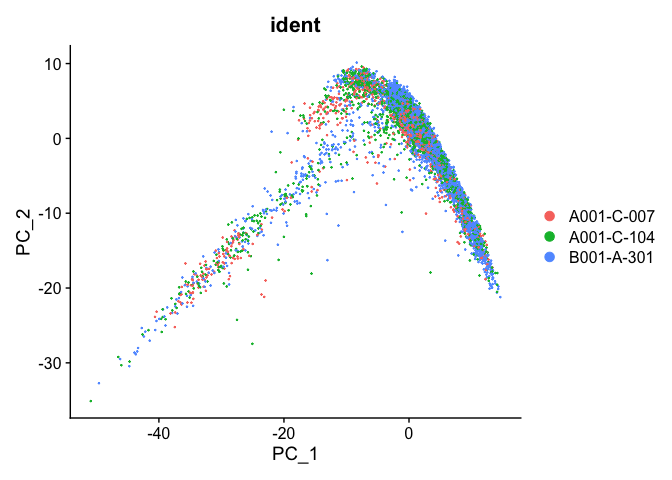
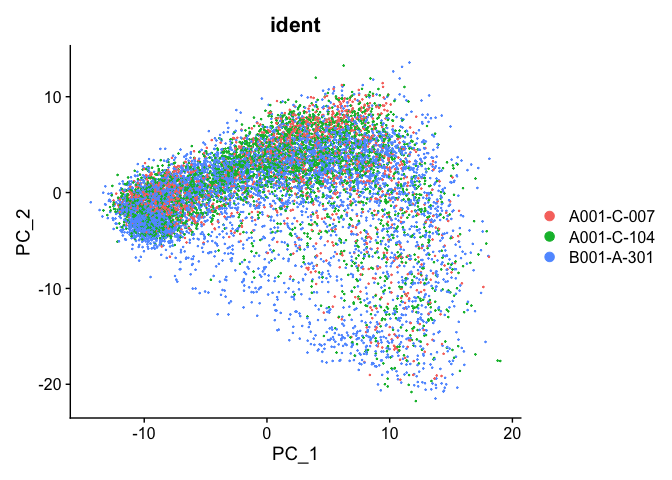
P3

diff --git a/data_analysis/scRNA_Workshop-PART3.md b/data_analysis/scRNA_Workshop-PART3.md
@@ -9,9 +9,14 @@ output:
 
 Last Updated: July 15, 2022
 
-# Part 3: Integrate multiple single cell samples
+# Part 3: Integrate multiple single cell samples / batch correction
 
-More and more experiments sequence more than one samples/datasets, such as the data from [Becker et al., 2022](https://www.nature.com/articles/s41588-022-01088-x) that we are using. It is important to properly integrate these datasets, and we will see the effect the integration has at the end of this documentation. The basic idea is to identify cross-dataset pairs cells that are in a matched biological state ("anchors"), and use them to correct technical differences between datasets. The integration method we used has been implemented in Seurat and you can find the details of the method in [its publication](https://www.cell.com/cell/fulltext/S0092-8674(19)30559-8)
+More and more experiments sequence more than one samples/datasets, such as the data from [Becker et al., 2022](https://www.nature.com/articles/s41588-022-01088-x) that we are using. It is important to properly integrate these datasets, and we will see the effect the integration has at the end of this documentation.
+
+Most of the methods that were developed to integrate single cell datasets fall into two categories. The first is the "anchor" based approach. In this approach, the first step is to select a batch as the "anchor" and convert other batches to the "anchor" batch. Among this approach, there are [MNN](https://github.com/MarioniLab/MNN2017), [iMAP](https://github.com/Svvord/iMAP), [SCALEX](https://github.com/jsxlei/SCALEX) and [Seurat's integration](https://www.cell.com/cell/fulltext/S0092-8674(19)30559-8). The advantage of this approach is that different batches of cells can be studied under the same experimental conditions, and the disadvantage is that it is not possible to fully combine the features of each batch because the cell types contained in each batch are unknown. The second approach is to transform all batches of data to a low-dimensional space to correct batch effects, such as implemented in [Scanorama](https://github.com/brianhie/scanorama), [Harmony](https://github.com/immunogenomics/harmony), [DESC](https://www.nature.com/articles/s41467-020-15851-3) and [BBKNN](https://github.com/Teichlab/bbknn). This second approach has the advantage of extracting biologically relevant latent features and reducing the impact of noise, but it cannot be used for differential gene expression analysis. Many of these existing methods work well when the batches of datasets have the same cell types, however, they fail when there are different cell types involved in different datasets. Very recently (earlier this year), a [new approach](https://www.mdpi.com/1422-0067/23/4/2082) has been developed that uses connected graphs and generative adversarial networks (GAN) to achieve the goal of eliminating nonbiological noise between batches of datasets. This new method has been demonstrated to work well both in the situation where datasets have the same cell types and in the situation where datasets may have different cell types.
+
+
+In this workshop, we are going to look at Seurat's integration approach. The basic idea is to identify cross-dataset pairs cells that are in a matched biological state ("anchors"), and use them to correct technical differences between datasets. The integration method we used has been implemented in Seurat and you can find the details of the method in [its publication](https://www.cell.com/cell/fulltext/S0092-8674(19)30559-8).
 
 
 ## Load libraries
@@ -20,7 +25,15 @@ More and more experiments sequence more than one samples/datasets, such as the d
 library(Seurat)
 ```
 
-## Load the Seurat object from the prior excercise and split to individual samples
+## Load the Seurat object from the provided data and split to individual samples
+
+The provided data is raw data that has only gone through the filtering step.
+
+
+```r
+download.file("https://bioshare.bioinformatics.ucdavis.edu/bioshare/download/feb28v7lew62um4/sample_filtered.RData", "sample_filtered.RData")
+```
+
 
 
 ```r
@@ -63,7 +76,7 @@ Now, let's carry out these two processes for each sample
 ```r
 experiment.split <- lapply(X = experiment.split, FUN=function(x){
   x <- NormalizeData(x)
-  x <- FindVariableFeatures(x, selection.method = "vst", nfeatures = 10000)
+  x <- FindVariableFeatures(x, selection.method = "vst", nfeatures = 20000)
 })
 ```
 
@@ -71,7 +84,7 @@ experiment.split <- lapply(X = experiment.split, FUN=function(x){
 
 
 ```r
-features <- SelectIntegrationFeatures(object.list = experiment.split)
+features <- SelectIntegrationFeatures(object.list = experiment.split, nfeatures = 10000)
 anchors <- FindIntegrationAnchors(object.list = experiment.split, anchor.features = features)
 ```
 
